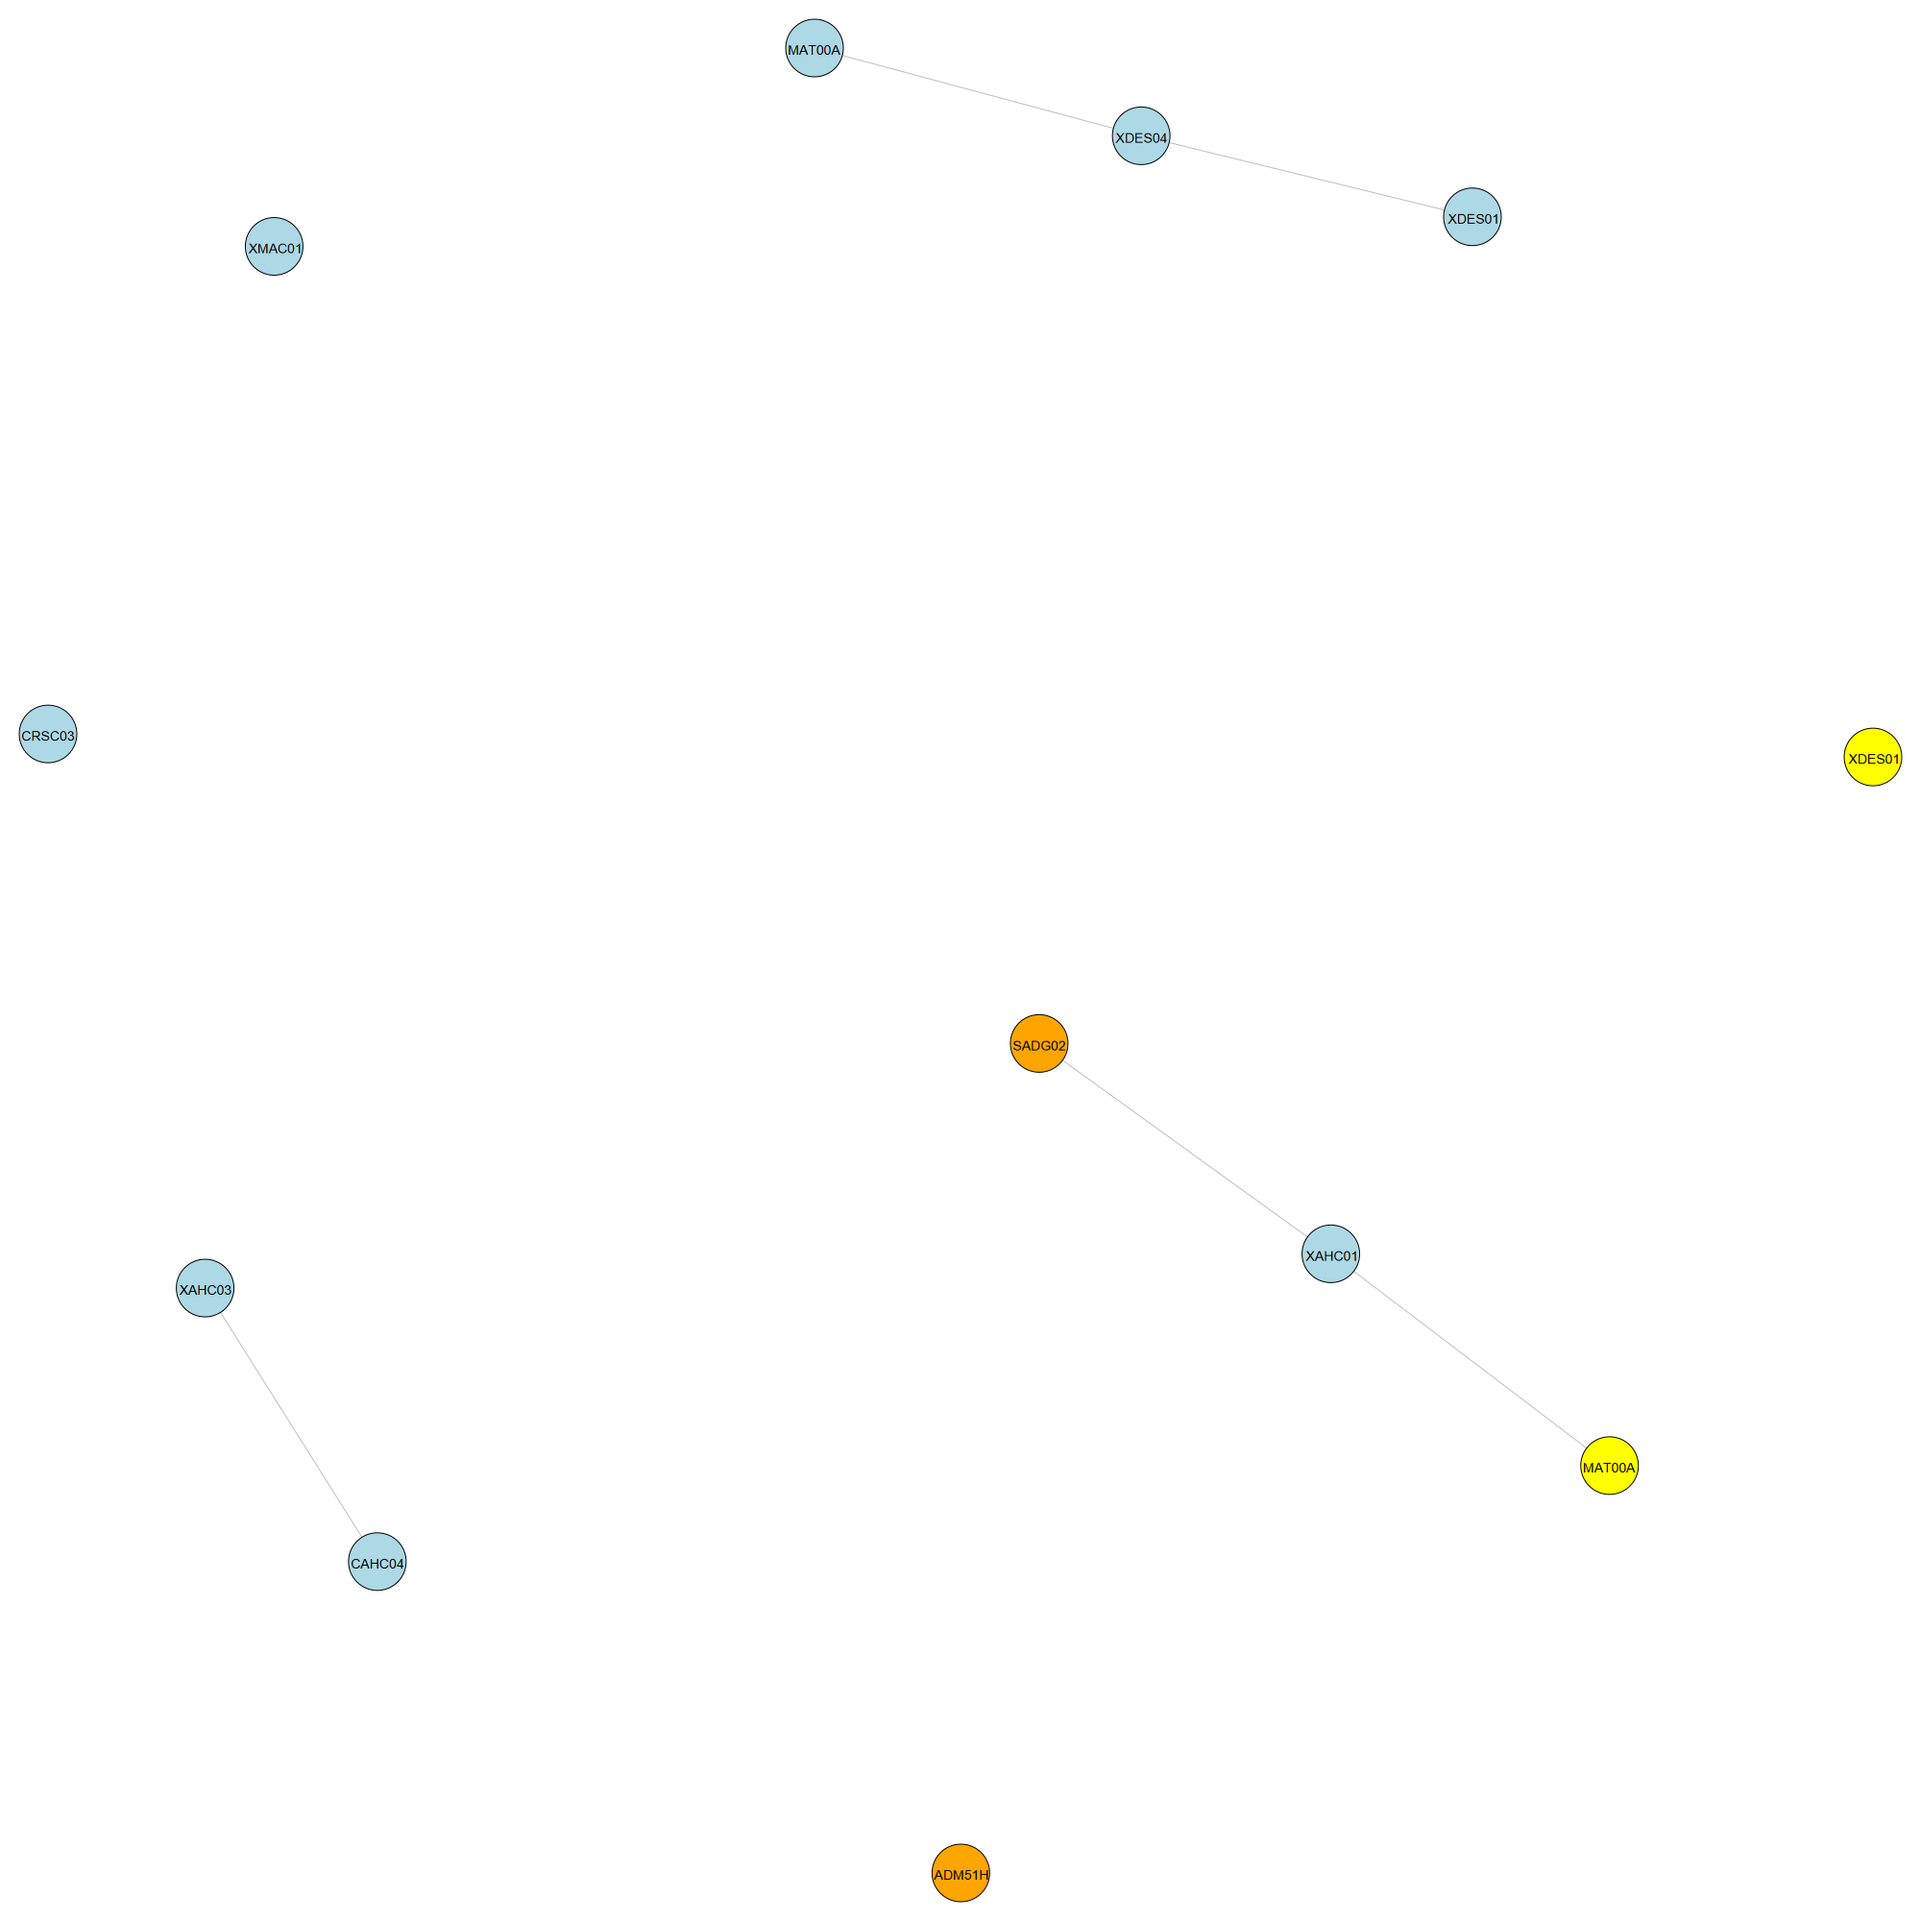
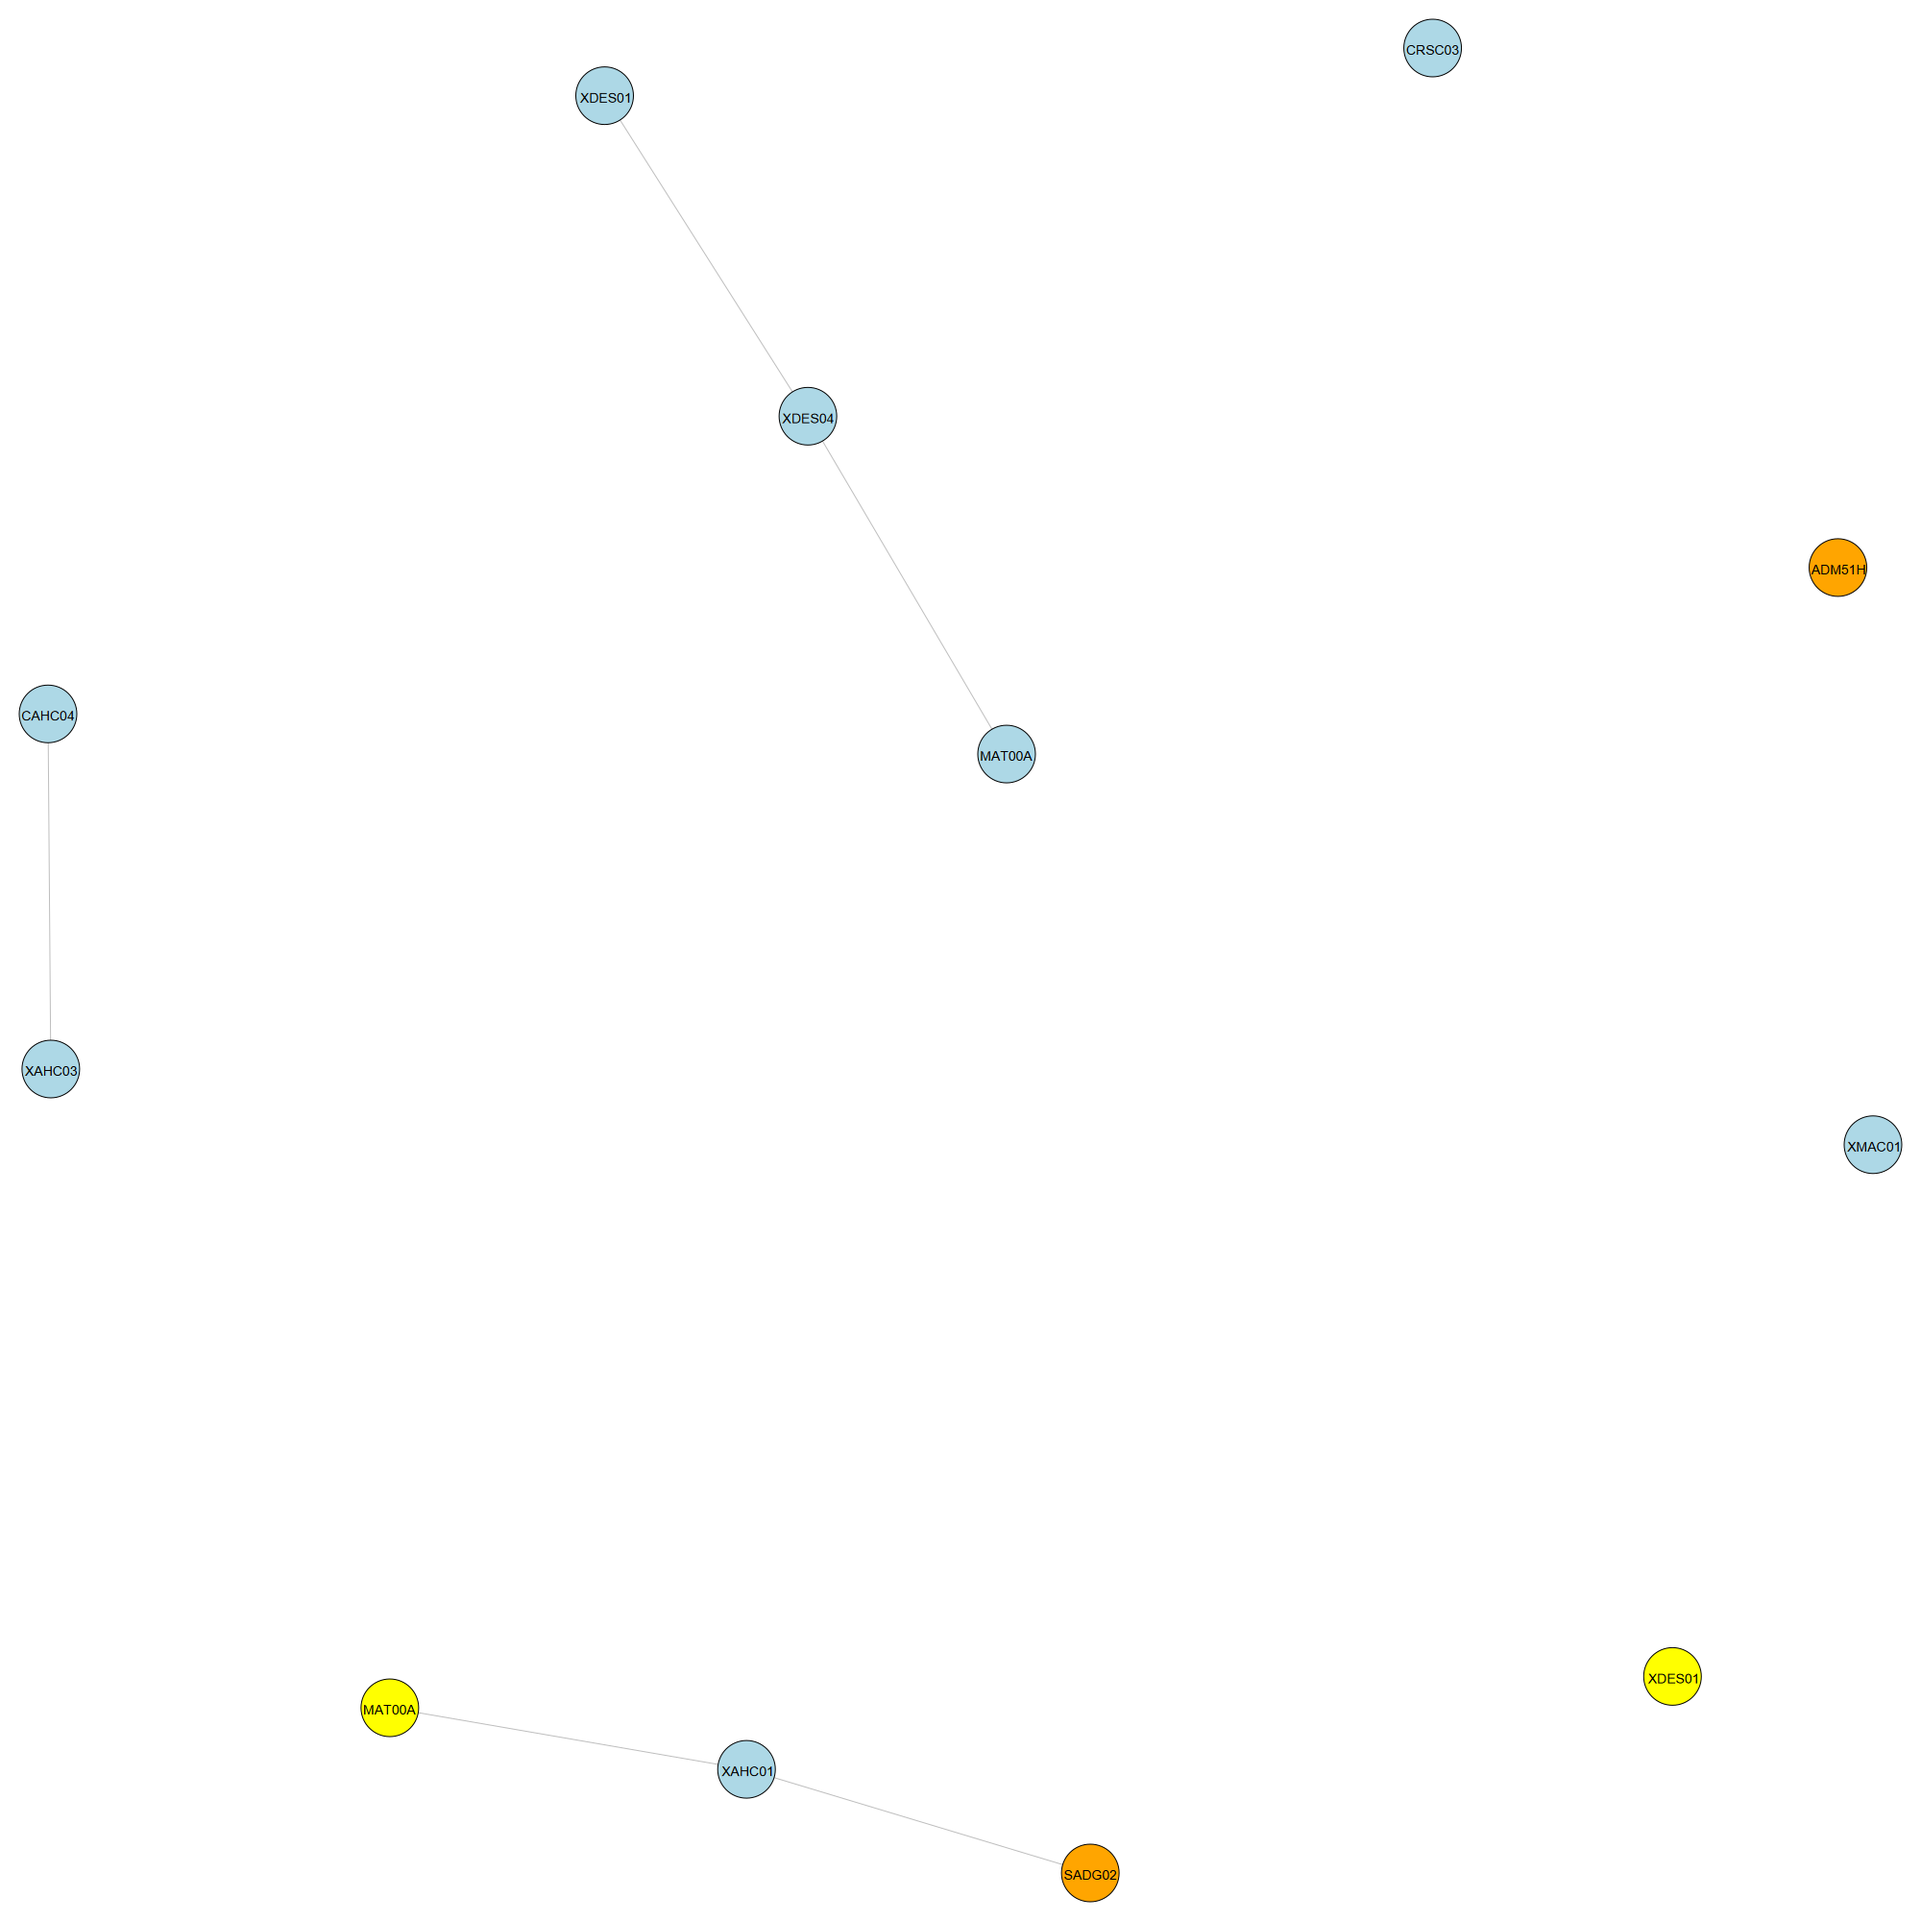
Finalizando cálculo dos pesos e consertando funcionamento de FiltraDisciplinas

diff --git a/main.py b/main.py
@@ -11,37 +11,46 @@ if __name__ == "__main__":
     )
 
     vertices = []
+    qtdSemestres = 8
 
     for index, row in ds.iterrows():
         vertice = Vertice(
-            sigla=row['SIGLA'],
-            nome=row['NOME'],
-            curso=row['CURSO'],
-            categoria=row['CAT.'],
-            semestre=row['PER.'],
-            anualidade=row['AN.'],
-            horarios=row['HOR.'],
-            cargaHor=row['CH'],
-            preReq=row['REQ.']
+            sigla       =   row['SIGLA'],
+            nome        =   row['NOME'],
+            curso       =   row['CURSO'],
+            categoria   =   row['CAT.'],
+            semestre    =   row['PER.'],
+            anualidade  =   row['AN.'],
+            horarios    =   row['HOR.'],
+            cargaHor    =   row['CH'],
+            preReq      =   row['REQ.'],
+
+            peso        =   qtdSemestres - row['PER.'] + 1
         )
-        vertices.append(vertice)
+        vertices.append(vertice)  
 
     listaAdj = MontaListaAdjDirigida(vertices)
 
     verticesComPesos = CalculaPesos(listaAdj, vertices)
 
-    for vertice in verticesComPesos:
-        print(vertice.nome + " --- " + str(vertice.peso))
+    #for vertice in verticesComPesos:
+    #    print(vertice.nome + " --- " + str(vertice.peso))
 
-    GeraGrafo(listaAdj, vertices, True, 1)
+    #verticesOrdenados = sorted(verticesComPesos, key=lambda v: v.peso, reverse=True)
+    #for vertice in verticesOrdenados:
+    #    print(vertice.nome + " --- " + str(vertice.peso))
+
+    GeraGrafo(listaAdj, verticesComPesos, True, 3)
 
     vazio = set()
 
-    disciplinasFiltradas = FiltraDisciplinas(vertices, vazio, 1)
+    disciplinasFiltradas = FiltraDisciplinas(verticesComPesos, vazio, 1)
+
+    ordenado = sorted(disciplinasFiltradas, key=lambda d: d.peso, reverse=True)
+
+    for d in ordenado:
+        print(d.sigla + " " + d.nome + " - " + d.categoria + " --- " + str(d.peso))
 
     listaAdj2 = MontaListaAdjSimples(disciplinasFiltradas)
 
-    GeraGrafo(listaAdj2, disciplinasFiltradas, False, 1)
-
-    for i in range(len(disciplinasFiltradas)):
-        print(disciplinasFiltradas[i].nome)
+    GeraGrafo(listaAdj2, disciplinasFiltradas, False, 3)

diff --git a/Metodos/CalculaPesos.py b/Metodos/CalculaPesos.py
@@ -1,7 +1,5 @@
 from Objetos import Vertice
 
-import numpy as np
-
 def CalculaPesos(listaAdj: list[list[int]], disciplinas: list[Vertice]) -> list[Vertice]:
     """
     Calcula os pesos dos vértices do grafo dirigido recebido com uma BFS.
@@ -26,15 +24,15 @@ def CalculaPesos(listaAdj: list[list[int]], disciplinas: list[Vertice]) -> list[
 
     # Inicia a DFS multínicio a partir dos vértices iniciais
     for indiceV in indicesVerticesIniciais:
-        DFS(indiceV, listaAdj, disciplinas, 0.0)
+        DFS(indiceV, listaAdj, disciplinas, 1.0)
 
     return disciplinas
 
 def DFS(indiceV: int, listaAdj: list[list[int]], disciplinas: list[Vertice], pesoPropagado: float):
-    # Soma o peso base ao peso propagado vezes os multiplicadores
-    # peso += pesoPropagado * multiplicadorAnualidade * multiplicadorCategoria
+    # Obtém os multiplicadores de pesos
     [multiplicadorAnualidade, multiplicadorCategoria] = ObtemMultiplicadores(disciplinas[indiceV])
 
+    # Soma o peso base ao peso propagado vezes os multiplicadores
     disciplinas[indiceV].peso += pesoPropagado * multiplicadorAnualidade * multiplicadorCategoria
 
     # Chama a DFS para os adjacentes, com o peso propagado sendo o peso calculado para o vértice atual
@@ -56,7 +54,7 @@ def ObtemMultiplicadores(disciplina: Vertice) -> tuple[float, float]:
     multiplicadorCategoria = (
         1.0 if disciplina.categoria == "OBRIGATORIA"
         else 0.9 if disciplina.categoria == "EQUIVALENTE"
-        else 0.8
+        else 0.7
     )
 
     return (multiplicadorAnualidade, multiplicadorCategoria)

diff --git a/Metodos/GeraGrafo.py b/Metodos/GeraGrafo.py
@@ -21,9 +21,10 @@ def GeraGrafo(listaAdj: list[list[int]], disciplinas: list[Vertice], dirigido: b
     siglasPrefixos = []
     siglasNormais = []
     cores = []
+    i = 0
     
     for disciplina in disciplinas:
-        siglasPrefixos.append(disciplina.curso + "_" + disciplina.sigla)
+        siglasPrefixos.append(str(i) + "_" + disciplina.sigla)
         siglasNormais.append(disciplina.sigla)
 
         cores.append(
@@ -32,6 +33,7 @@ def GeraGrafo(listaAdj: list[list[int]], disciplinas: list[Vertice], dirigido: b
             "orange"
         )
 
+        i += 1
 
     grafo.add_vertices(siglasPrefixos)  
 
@@ -51,12 +53,8 @@ def GeraGrafo(listaAdj: list[list[int]], disciplinas: list[Vertice], dirigido: b
                     grafo.add_edge(siglasPrefixos[i], siglasPrefixos[j])
 
     # Desenha o grafo e salva a imagem dele em um arquivo
-    if dirigido:    
-        layout = grafo.layout("tree")
-        print("GERANDO GRAFO DIRIGIDO")
-    else:           
-        layout = grafo.layout("fr")
-        print("GERANDO GRAFO SIMPLES")
+    if dirigido:    layout = grafo.layout("tree")
+    else:           layout = grafo.layout("fr")
 
     caminhoDiretorio = os.path.join(".", "Imagens", f"Teste_{id}")
     os.makedirs(caminhoDiretorio, exist_ok = True)

diff --git a/Objetos/Vertice.py b/Objetos/Vertice.py
@@ -2,7 +2,7 @@ from .Horario import Horario
 from .PreRequisito import PreRequisito
 
 class Vertice:
-    def __init__(self, sigla: str, nome: str, curso: str, categoria: str, semestre: int, anualidade: str, horarios: str, cargaHor: int, preReq: str):
+    def __init__(self, sigla: str, nome: str, curso: str, categoria: str, semestre: int, anualidade: str, horarios: str, cargaHor: int, preReq: str, peso: float):
         self.sigla = sigla
         self.nome = nome
         self.curso = curso
@@ -12,9 +12,7 @@ class Vertice:
         self.horarios = Horario(horarios)
         self.cargaHor = cargaHor
         self.preReq = PreRequisito(preReq)
-        
-        self.peso: float = 1.0
-
+        self.peso = 0.0 if categoria == "OPTATIVA" else peso
 
     def verificaHorarioConflitante(self, outro: 'Vertice') -> bool:
         """
@@ -39,3 +37,4 @@ class Vertice:
         """
 
         return self.preReq.contem(outro.sigla)
+

diff --git a/Metodos/FiltraDisciplinas.py b/Metodos/FiltraDisciplinas.py
@@ -1,5 +1,4 @@
 from Objetos import Vertice
-from Objetos import PreRequisito
 
 def FiltraDisciplinas(disciplinas: list[Vertice], disciplinasCumpridas: set[str], periodoAtual: int) -> list[Vertice]:
     """
@@ -17,7 +16,7 @@ def FiltraDisciplinas(disciplinas: list[Vertice], disciplinasCumpridas: set[str]
             disciplinasFiltradas.remove(disciplina)
 
         # Fitlra da lista as matérias que já foram concluidas
-        elif disciplina in disciplinasCumpridas:
+        elif disciplina.sigla in disciplinasCumpridas:
             disciplinasFiltradas.remove(disciplina)
 
         # Filtra da lista as matérias cujos pré requisitos não foram atendidos
